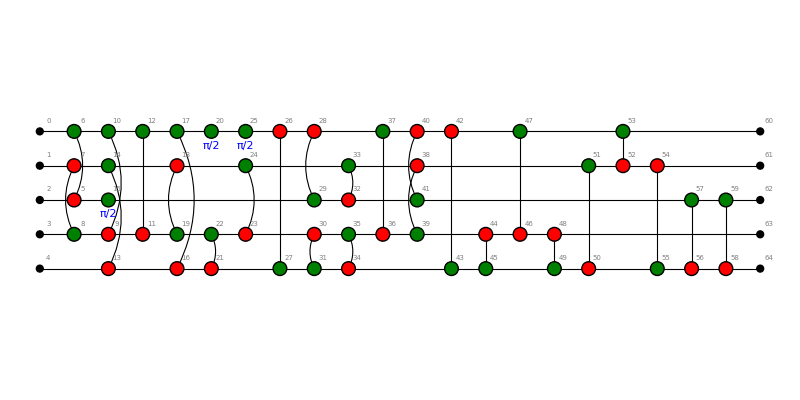
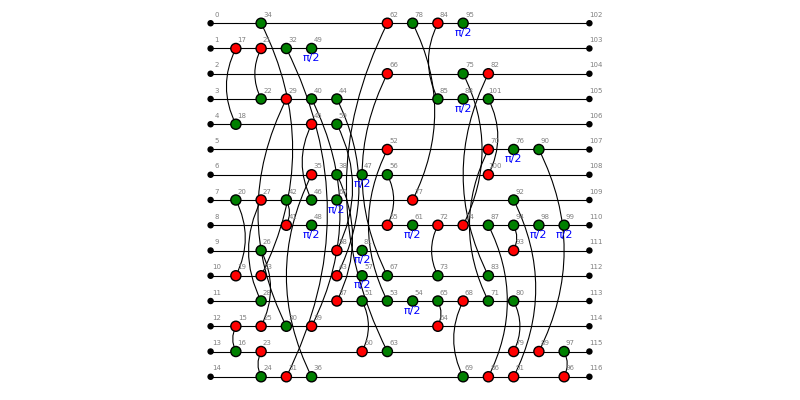
mcsim_tensor 0%

diff --git a/pyzx/tensor.py b/pyzx/tensor.py
@@ -63,7 +63,7 @@ def Z_to_tensor(arity: int, phase: float) -> np.ndarray:
     m[(0,) * arity] = 1
     m[(1,) * arity] = np.exp(1j * phase)
 
-    print("Ztensor:", m)
+    # print("Ztensor:", m)
     return m
 
 
@@ -78,7 +78,7 @@ def X_to_tensor(arity: int, phase: float) -> np.ndarray:
         else:
             m[i] -= np.exp(1j * phase)
 
-    print("Xtensor:", np.power(np.sqrt(0.5), arity) * m.reshape([2] * arity))
+    # print("Xtensor:", np.power(np.sqrt(0.5), arity) * m.reshape([2] * arity))
     return np.power(np.sqrt(0.5), arity) * m.reshape([2] * arity)
 
 
@@ -132,10 +132,10 @@ def tensorfy(g: "BaseGraph[VT,ET]", preserve_scalar: bool = True) -> np.ndarray:
         else:
             verts_row[curr_row] = [v]
 
-    print("### \n verts row :{} \n###".format(verts_row))
+    # print("### \n verts row :{} \n###".format(verts_row))
 
     inputs = g.inputs()
-    print("### \n inputs_0 :{} \n###".format(inputs))
+    # print("### \n inputs_0 :{} \n###".format(inputs))
 
     outputs = g.outputs()
     if not inputs and not outputs:
@@ -153,22 +153,22 @@ def tensorfy(g: "BaseGraph[VT,ET]", preserve_scalar: bool = True) -> np.ndarray:
     for i in range(qubits):
         tensor = np.tensordot(tensor, id2, axes=0)
 
-    print("7777tensor\n:",tensor)
-    print("inp tensor: \n", tensor_to_matrix(tensor, len(inputs), len(outputs)))
+    # print("7777tensor\n:",tensor)
+    # print("inp tensor: \n", tensor_to_matrix(tensor, len(inputs), len(outputs)))
 
     inputs = tuple(sorted(inputs, key=g.qubit))
-    print("### \n inputs_1 :{} \n###".format(inputs))
+    # print("### \n inputs_1 :{} \n###".format(inputs))
 
     indices = {}
 
     inputs = sorted(inputs, key=g.qubit)
-    print("### \n inputs_2 :{} \n###".format(inputs))
+    # print("### \n inputs_2 :{} \n###".format(inputs))
 
     uncontracted_indices = {}
 
     for i, v in enumerate(inputs):
         uncontracted_indices[v] = [1 + 2 * i]  # why +2*i
-    print("### \n uncontracted_indices_0 :{} \n###".format(uncontracted_indices))
+    # print("### \n uncontracted_indices_0 :{} \n###".format(uncontracted_indices))
 
     for i, curr_row in enumerate(sorted(verts_row.keys())):
         # ->row
@@ -220,7 +220,7 @@ def tensorfy(g: "BaseGraph[VT,ET]", preserve_scalar: bool = True) -> np.ndarray:
             )
 
             edge_type = {n: g.edge_type(g.edge(v, n)) for n in past_vertices}
-            print("###\n current_vert={} \n edge_types: {} \n###".format(v, edge_type))
+            # print("###\n current_vert={} \n edge_types: {} \n###".format(v, edge_type))
 
             past_vertices.sort(key=lambda n: edge_type[n])
             print(
@@ -239,25 +239,26 @@ def tensorfy(g: "BaseGraph[VT,ET]", preserve_scalar: bool = True) -> np.ndarray:
             # the last indices in idx_contr_past correspond to hadamard contractions
             # These are the indices in the total tensor that will be contracted
 
-            print(
-                "\n###\n past vertices : {} \n current vertice:{}\n uncontracted indices:{} ".format(
-                    past_vertices, v, uncontracted_indices
-                )
-            )
+            # print(
+            #     "\n###\n past vertices : {} \n current vertice:{}\n uncontracted indices:{} ".format(
+            #         past_vertices, v, uncontracted_indices
+            #     )
+            # )
+
             idx_contr_past = pop_and_shift_uncontracted_indices(
                 past_vertices, uncontracted_indices
             )
-            print("idx_contr_past 0:{} \n###".format(idx_contr_past))
+            #print("idx_contr_past 0:{} \n###".format(idx_contr_past))
 
             # The last axes in the tensor t are the one that will be contracted
             idx_contr_curr = list(
                 range(len(t.shape) - len(idx_contr_past), len(t.shape))
             )
-            print(
-                "###\nindx_contr_past 001:{} \n idx_contr_curr{} \n###".format(
-                    idx_contr_past, idx_contr_curr
-                )
-            )
+            # print(
+            #     "###\nindx_contr_past 001:{} \n idx_contr_curr{} \n###".format(
+            #         idx_contr_past, idx_contr_curr
+            #     )
+            # )
 
             tensor = np.tensordot(tensor, t, axes=(idx_contr_past, idx_contr_curr))
 
@@ -281,8 +282,8 @@ def tensorfy(g: "BaseGraph[VT,ET]", preserve_scalar: bool = True) -> np.ndarray:
     if preserve_scalar:
         tensor *= g.scalar.to_number()
 
-    print("base tensor 0 permut: ", tensor)
-    print("base tensor_mat 0 permut: \n", tensor_to_matrix(tensor, len(inputs),len(outputs)))
+    # print("base tensor 0 permut: ", tensor)
+    # print("base tensor_mat 0 permut: \n", tensor_to_matrix(tensor, len(inputs),len(outputs)))
     perm = []
     for o in sorted(outputs, key=g.qubit):
         assert len(uncontracted_indices[o]) == 1
@@ -290,7 +291,7 @@ def tensorfy(g: "BaseGraph[VT,ET]", preserve_scalar: bool = True) -> np.ndarray:
     for i in range(len(inputs)):
         perm.append(i)
 
-    print("$$: perm:",perm)
+    # print("$$: perm:",perm)
     tensor = np.transpose(tensor, perm)
 
     # Test that sparse works
@@ -298,10 +299,10 @@ def tensorfy(g: "BaseGraph[VT,ET]", preserve_scalar: bool = True) -> np.ndarray:
     # sparse_tensor = tensorfy_scipy(g, preserve_scalar)
     # assert (sparse_tensor == tensor)
 
-    print("@@ tensorfy @@")
-
-    print("tesnsor shape:", tensor.shape)
-    print("tensor:", tensor)
+    # print("@@ tensorfy @@")
+    #
+    # print("tesnsor shape:", tensor.shape)
+    # print("tensor:", tensor)
 
     return tensor
 

diff --git a/mcsim/mcsim_tensor.py b/mcsim/mcsim_tensor.py
@@ -94,32 +94,33 @@ def mcsim_tensorfy(pyzx_graph, contraction_edge_list, preserve_scalar: bool = Tr
                 mansikka_edge_map[edgex]["out"] = edge["out"]
 
 #######################################################################################################
-#         # treat the Hadamard edges
-#         # need to be verrified
-#         for c_e in joint_edges:
-#             print("#### Treat Hadamard edges ####")
-#             if edge_list[c_e]["type"] == EdgeType.HADAMARD:
-#                 # get the contraction axes in input tensor
-#                 inp_axis_connected_with_had = [input_node.edges.index(c_e)]
-#                 # contract with the hadamard and update the input tensor
-#                 new_tensor = np.tensordot(
-#                     input_node.tensor,had, axes=(inp_axis_connected_with_had,[1] )
-#                 )
-#                 input_node.set_tensor(new_tensor)
-#
-#                 # remove contracted edge and add it again at the right place
-#                 print("#### input node edges before H:", input_node.edges)
-#                 input_node.edges.remove(c_e)
-#                 input_node.edges.insert(0,c_e)#append(c_e)
-#                 print("#### input node edges after H:", input_node.edges)
-#
-#                 # recalculate contraction axes for the modified tensor
-#                 print("#### recalculate input axes ")
-#                 ni_axes = []
-#                 for i, inp_edge in enumerate(input_node.edges):
-#                     print("## edge_axes in input:{}\nedge:{}".format(i, inp_edge))
-#                     if inp_edge in output_node.edges:
-#                         ni_axes.append(i)
+        # # treat the Hadamard edges
+        # # need to be verrified
+        # for c_e in edge_id_and:
+        #     print("#### Treat Hadamard edges ####")
+        #     if mansikka_edge_map[c_e]["type"] == EdgeType.HADAMARD:
+        #         # get the contraction axes in input tensor
+        #         print("mansfikka_input_node.edge_ids:",mansikka_input_node.edge_ids)
+        #         inp_axis_connected_with_had = [mansikka_input_node.edge_ids.index(c_e)]
+        #         # contract with the hadamard and update the input tensor
+        #         new_tensor = np.tensordot(
+        #             mansikka_input_node.tensor,had, axes=(inp_axis_connected_with_had,[1] )
+        #         )
+        #         mansikka_input_node.set_tensor(new_tensor)
+        #
+        #         # remove contracted edge and add it again at the right place
+        #         print("#### input node edges before H:", mansikka_input_node.edge_ids)
+        #         mansikka_input_node.edge_ids.remove(c_e)
+        #         mansikka_input_node.edge_ids.insert(0,c_e)#append(c_e)
+        #         print("#### input node edges after H:", mansikka_input_node.edge_ids)
+        #
+        #         # recalculate contraction axes for the modified tensor
+        #         print("#### recalculate input axes ")
+        #         input_axes = []
+        #         for i, inp_edge in enumerate(mansikka_input_node.edge_ids):
+        #             print("## edge_axes in input:{}\nedge:{}".format(i, inp_edge))
+        #             if inp_edge in mansikka_output_node.edge_ids:
+        #                 input_axes.append(i)
 # ######################################################################################################
 
 
@@ -157,10 +158,11 @@ def mcsim_tensorfy(pyzx_graph, contraction_edge_list, preserve_scalar: bool = Tr
                 unordered_output.append(lat_id)
 
         edgelist=mansikka_edge_map
-        unordered_input =sorted(unordered_input, key=lambda edg : edg / 999 + edgelist[edg]["inp"] + edgelist[edg]["out"])
+        unordered_input =sorted(unordered_input, key=lambda edg : edg / pyzx_graph.num_vertices  + edgelist[edg]["inp"] + edgelist[edg]["out"])
         unordered_output = sorted(unordered_output,
-                                 key=lambda edg: edg / 999 + edgelist[edg]["inp"] + edgelist[edg]["out"])
+                                 key=lambda edg: edg / pyzx_graph.num_vertices + edgelist[edg]["inp"] + edgelist[edg]["out"])
         unordered_input.extend(unordered_output)
+
         #unordered_output.extend(unordered_input)
         ordered_edges = unordered_input
         print("edge order")

diff --git a/mansikka_example.py b/mansikka_example.py
@@ -14,12 +14,12 @@ baseline_pipeline = McSimPipeline(name="baseline")
 mansikka_extractor = MansikkaExtractor(params={"m": 2, "nr_iter": 6})
 mansikka_pipeline = McSimPipeline(name="mansikka", extractor=mansikka_extractor)
 
-qubits = 5
-depth = 29
+qubits = 15
+depth = 50
 
 # Force seed
 random.seed(1)
-circuit = pyzx.generate.CNOT_HAD_PHASE_circuit(qubits, depth, p_had=0.0, clifford=True)
+circuit = pyzx.generate.CNOT_HAD_PHASE_circuit(qubits, depth, p_had=0.00, clifford=True)
 # Visualising the circuit
 pyzx.draw_matplotlib(circuit.to_graph(), labels=True, figsize=(8, 4), h_edge_draw='blue', show_scalar=False, rows=None).savefig("circuit_0.png")
 
@@ -36,7 +36,7 @@ print("Equals:         \n", np.equal(matrix_0, matrix_1))
 s=0
 for i in range(len(matrix_0)):
     for j in range(len(matrix_0)):
-        s=s+(matrix_0[i][j]-matrix_1[i][j])**2
+        s=s+(abs(matrix_0[i][j]-matrix_1[i][j]))**2
 
 print("Dif:",s)
 # for state in range(2**qubits):

diff --git a/pyzx/generate.py b/pyzx/generate.py
@@ -102,7 +102,7 @@ def spider(
 def CNOT_HAD_PHASE_circuit(
     qubits: int,
     depth: int,
-    p_had: float = 0.0,
+    p_had: float = 0.5,
     p_t: float = 0.2,
     clifford: bool = False,
 ) -> Circuit:
@@ -424,7 +424,7 @@ def cliffords(
     p_two_qubit = 0.4  # whether to add a edge between two qubits
     p_cnot = 1  # 0.4 # whether to CNOT or to CZ
     p_phase = 0.6  # probability of adding a phase to a node
-    p_had = 0.0  # probability of adding a hadamard on a qubit
+    p_had = 0.02 # probability of adding a hadamard on a qubit
 
     # initialise and add input row
 
